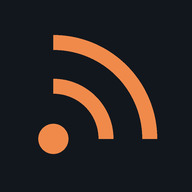
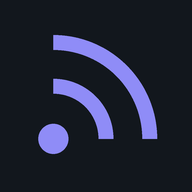
Add an accent colour picker and replace the orange default with indigo
Claude-Session: https://claude.ai/code/session_0118dJZ3Ey4jUQB4Yb6GZHgb

Changed region(s): [[0.25, 0.1562, 0.8438, 0.75], [0.25, 0.4062, 0.5938, 0.75], [0.1875, 0.625, 0.375, 0.8125]]

diff --git a/src/App.tsx b/src/App.tsx
@@ -1,6 +1,6 @@
 import { useCallback, useEffect, useMemo, useRef, useState } from "react";
 import { AnimatePresence, motion } from "motion/react";
-import { ArrowLeft, ArrowUpRight, CheckCheck, Languages, LoaderCircle, Moon, Play, RefreshCw, Rss, SlidersHorizontal, Sun, X } from "lucide-react";
+import { ArrowLeft, ArrowUpRight, CheckCheck, Languages, LoaderCircle, Moon, Palette, Play, RefreshCw, Rss, SlidersHorizontal, Sun, X } from "lucide-react";
 import { Checkbox } from "@/components/ui/checkbox";
 import { TARGET, translate, translatedPage } from "@/lib/translate";
 import { Button } from "@/components/ui/button";
@@ -12,6 +12,15 @@ type Section = "news" | "papers" | "podcasts" | "videos";
 type Story = { id: string; title: string; source: string; url: string; date: string; summary: string; section?: Section; topic?: string; authors?: string; audio?: string; duration?: string; video?: string };
 
 const TOPICS = ["AI", "Machine learning", "Big data", "Business"];
+const ACCENTS = [
+  { id: "indigo", label: "Indigo", hue: 275, chroma: 0.2 },
+  { id: "blue", label: "Blue", hue: 250, chroma: 0.19 },
+  { id: "teal", label: "Teal", hue: 195, chroma: 0.11 },
+  { id: "green", label: "Green", hue: 155, chroma: 0.15 },
+  { id: "rose", label: "Rose", hue: 8, chroma: 0.2 },
+  { id: "violet", label: "Violet", hue: 310, chroma: 0.2 },
+  { id: "graphite", label: "Graphite", hue: 255, chroma: 0.02 },
+];
 const SECTIONS: { id: Section; label: string }[] = [{ id: "news", label: "News" }, { id: "papers", label: "Papers" }, { id: "podcasts", label: "Podcasts" }, { id: "videos", label: "Videos" }];
 
 const store = {
@@ -93,6 +102,17 @@ export default function App() {
   const bySource = papers || pods || vids;
   const [hidden, setHidden] = useState<Record<string, 1>>(() => store.get("aiwire.hidden", {}));
   const [picker, setPicker] = useState(false);
+  const [accent, setAccent] = useState(() => { const a = store.get<string>("aiwire.accent", "indigo"); return ACCENTS.some((x) => x.id === a) ? a : "indigo"; });
+  const [palette, setPalette] = useState(false);
+  const paletteRef = useRef<HTMLDivElement>(null);
+  const pickAccent = (id: string) => { setAccent(id); store.set("aiwire.accent", id); document.documentElement.dataset.accent = id; };
+  useEffect(() => {
+    if (!palette) return;
+    const down = (e: PointerEvent) => { if (!paletteRef.current?.contains(e.target as Node)) setPalette(false); };
+    const key = (e: KeyboardEvent) => { if (e.key === "Escape") setPalette(false); };
+    document.addEventListener("pointerdown", down); document.addEventListener("keydown", key);
+    return () => { document.removeEventListener("pointerdown", down); document.removeEventListener("keydown", key); };
+  }, [palette]);
   const allInSection = useMemo(() => stories.filter((s) => (s.section || "news") === section), [stories, section]);
   const inSection = useMemo(() => allInSection.filter((s) => !hidden[section + "|" + s.source]), [allInSection, hidden, section]);
   // Every source of this section with its story count, grouped by topic for news.
@@ -319,6 +339,36 @@ export default function App() {
           <Button variant="ghost" size="icon" onClick={load} disabled={busy} aria-label="Refresh headlines" title="Refresh">
             <RefreshCw className={cn(busy && "animate-spin")} />
           </Button>
+          <div ref={paletteRef} className="relative">
+            <Button variant="ghost" size="icon" onClick={() => setPalette((v) => !v)} aria-label="Change colour" aria-expanded={palette} title="Change colour">
+              <Palette />
+            </Button>
+            <AnimatePresence>
+              {palette && (
+                <motion.div
+                  role="dialog" aria-label="Accent colour"
+                  initial={{ opacity: 0, scale: 0.9, y: -6 }} animate={{ opacity: 1, scale: 1, y: 0 }} exit={{ opacity: 0, scale: 0.94, y: -4 }}
+                  transition={{ type: "spring", stiffness: 480, damping: 30 }}
+                  className="absolute top-full right-0 z-40 mt-2 w-max origin-top-right rounded-lg border bg-card p-3 shadow-lg"
+                >
+                  <p className="mb-2.5 text-[13px] font-medium">Accent colour: {ACCENTS.find((a) => a.id === accent)?.label}</p>
+                  <div className="flex gap-2">
+                    {ACCENTS.map((a, i) => (
+                      <motion.button
+                        key={a.id} type="button" onClick={() => pickAccent(a.id)} aria-label={a.label} aria-pressed={accent === a.id} title={a.label}
+                        initial={{ scale: 0 }} animate={{ scale: 1 }} transition={{ type: "spring", stiffness: 500, damping: 22, delay: i * 0.03 }}
+                        whileHover={{ scale: 1.15 }} whileTap={{ scale: 0.88 }}
+                        className="relative grid size-8 place-items-center rounded-full outline-none focus-visible:ring-[3px] focus-visible:ring-ring/50"
+                        style={{ background: `oklch(${dark ? 0.77 : 0.55} ${dark ? a.chroma * 0.72 : a.chroma} ${a.hue})` }}
+                      >
+                        {accent === a.id && <motion.span layoutId="accent-ring" className="absolute -inset-1 rounded-full border-2 border-foreground" transition={{ type: "spring", stiffness: 500, damping: 32 }} />}
+                      </motion.button>
+                    ))}
+                  </div>
+                </motion.div>
+              )}
+            </AnimatePresence>
+          </div>
           <Button variant="ghost" size="icon" onClick={toggleTheme} aria-label="Switch theme" title="Switch theme">
             <AnimatePresence mode="wait" initial={false}>
               <motion.span key={dark ? "d" : "l"} initial={{ rotate: -90, opacity: 0 }} animate={{ rotate: 0, opacity: 1 }} exit={{ rotate: 90, opacity: 0 }} transition={{ duration: 0.18 }}>

diff --git a/src/index.css b/src/index.css
@@ -8,7 +8,9 @@
   --foreground: oklch(0.2 0.02 255);
   --card: oklch(1 0 0);
   --card-foreground: oklch(0.2 0.02 255);
-  --primary: oklch(0.62 0.18 42);
+  --hue: 275;
+  --chroma: 0.2;
+  --primary: oklch(0.55 var(--chroma) var(--hue));
   --primary-foreground: oklch(0.99 0 0);
   --secondary: oklch(0.955 0.006 250);
   --secondary-foreground: oklch(0.25 0.02 255);
@@ -18,7 +20,7 @@
   --accent-foreground: oklch(0.25 0.02 255);
   --border: oklch(0.9 0.008 250);
   --input: oklch(0.9 0.008 250);
-  --ring: oklch(0.62 0.18 42);
+  --ring: oklch(0.55 var(--chroma) var(--hue));
 }
 .dark {
   color-scheme: dark;
@@ -26,8 +28,8 @@
   --foreground: oklch(0.95 0.005 250);
   --card: oklch(0.21 0.014 255);
   --card-foreground: oklch(0.95 0.005 250);
-  --primary: oklch(0.74 0.15 50);
-  --primary-foreground: oklch(0.18 0.02 50);
+  --primary: oklch(0.77 calc(var(--chroma) * 0.72) var(--hue));
+  --primary-foreground: oklch(0.18 0.03 var(--hue));
   --secondary: oklch(0.27 0.014 255);
   --secondary-foreground: oklch(0.95 0.005 250);
   --muted: oklch(0.27 0.014 255);
@@ -36,8 +38,16 @@
   --accent-foreground: oklch(0.95 0.005 250);
   --border: oklch(1 0 0 / 11%);
   --input: oklch(1 0 0 / 15%);
-  --ring: oklch(0.74 0.15 50);
+  --ring: oklch(0.77 calc(var(--chroma) * 0.72) var(--hue));
 }
+
+/* Accent colours picked in the app. Indigo is the default. */
+[data-accent="blue"] { --hue: 250; --chroma: 0.19; }
+[data-accent="teal"] { --hue: 195; --chroma: 0.11; }
+[data-accent="green"] { --hue: 155; --chroma: 0.15; }
+[data-accent="rose"] { --hue: 8; --chroma: 0.2; }
+[data-accent="violet"] { --hue: 310; --chroma: 0.2; }
+[data-accent="graphite"] { --hue: 255; --chroma: 0.02; }
 
 @theme inline {
   --color-background: var(--background);

diff --git a/index.html b/index.html
@@ -14,7 +14,9 @@
 <script>
 (function(){var t=null;try{t=localStorage.getItem("aiwire.theme")}catch(e){}
 var dark=t?t==="dark":matchMedia("(prefers-color-scheme: dark)").matches;
-if(dark)document.documentElement.classList.add("dark")})();
+if(dark)document.documentElement.classList.add("dark");
+var a=null;try{a=JSON.parse(localStorage.getItem("aiwire.accent"))}catch(e){}
+if(typeof a==="string"&&/^[a-z]+$/.test(a))document.documentElement.dataset.accent=a})();
 </script>
 </head>
 <body>

diff --git a/public/sw.js b/public/sw.js
@@ -1,5 +1,5 @@
 // Network first, cache as a fallback, so the last loaded headlines stay readable offline.
-const CACHE = "aiwire-v2";
+const CACHE = "aiwire-v3";
 self.addEventListener("install", (e) => {
   e.waitUntil(caches.open(CACHE).then((c) => c.addAll(["./", "manifest.webmanifest", "icon-192.png"])).then(() => self.skipWaiting()));
 });
